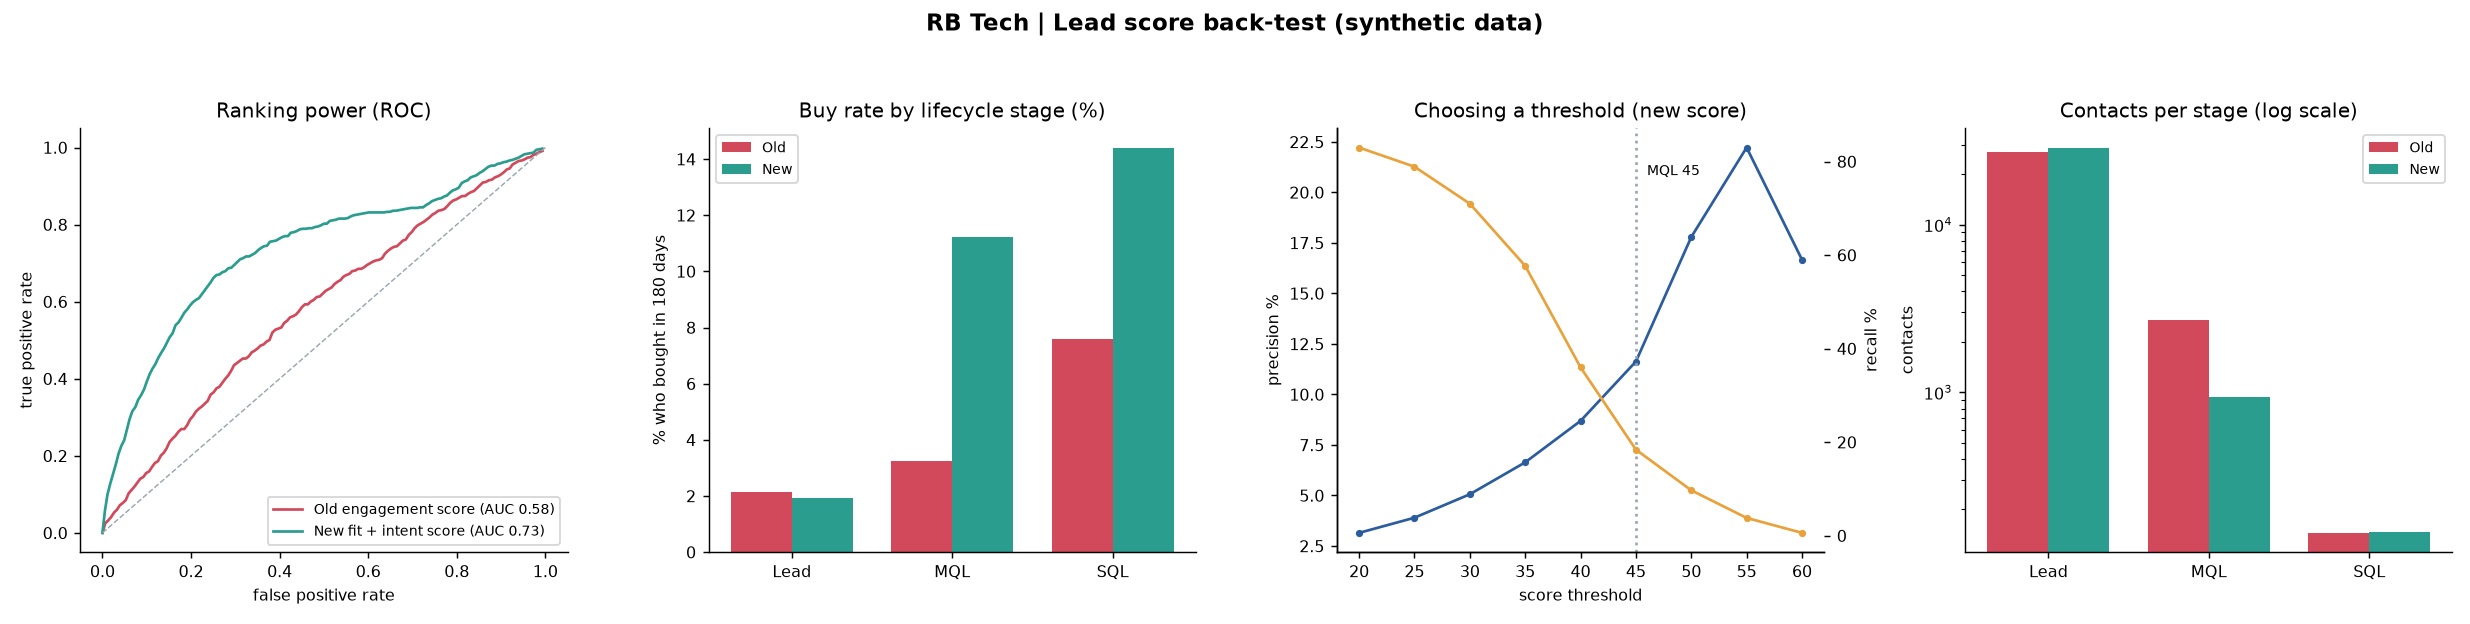
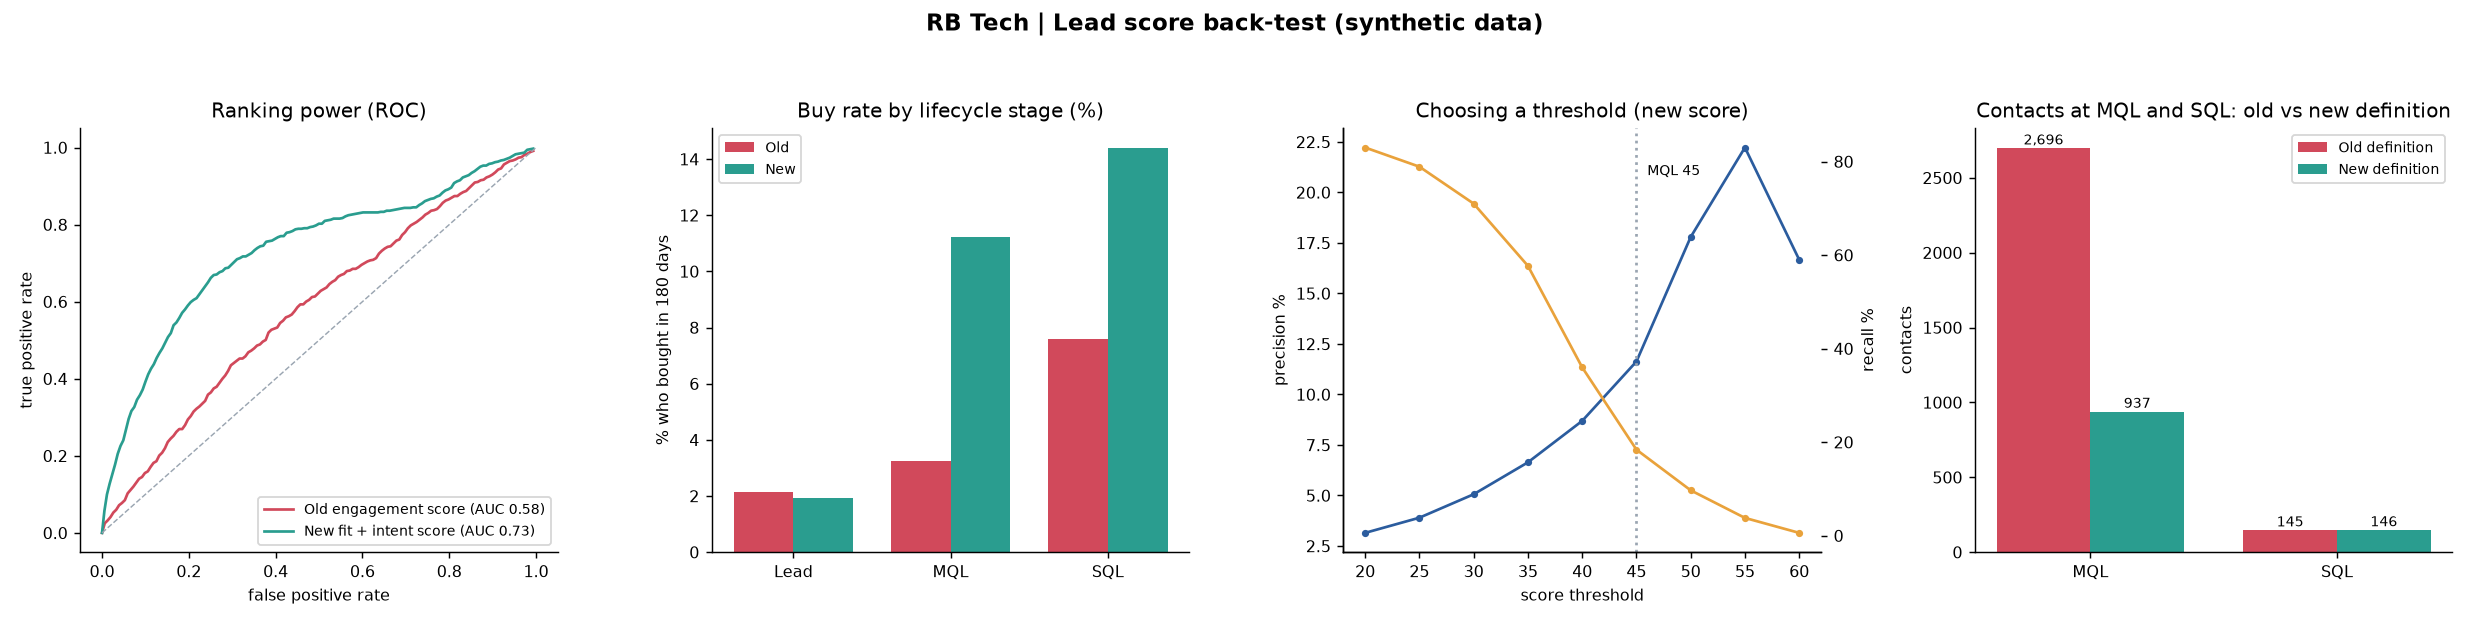
Replace confusing charts: remove log scales, audit panel and error-style framing; rename SKU prefix

diff --git a/02-lead-scoring-redesign/scripts/scoring_backtest.py b/02-lead-scoring-redesign/scripts/scoring_backtest.py
@@ -167,12 +167,16 @@ ax[2].axvline(45, color=GREY, ls=":")
 ax[2].text(46, ax[2].get_ylim()[1] * .9, "MQL 45", fontsize=8)
 vol = stage_tbl.pivot(index="stage", columns="scheme", values="contacts").reindex(["Lead", "MQL", "SQL"])
 vol.columns = ["New", "Old"] if vol.columns[0].startswith("New") else ["Old", "New"]
-ax[3].bar(x - w / 2, vol["Old"].replace(0, 1), w, color=RED, label="Old")
-ax[3].bar(x + w / 2, vol["New"].replace(0, 1), w, color=TEAL, label="New")
-ax[3].set_yscale("log")
-ax[3].set_xticks(x, labels)
+v2 = vol.loc[["MQL", "SQL"]]
+x2 = np.arange(2)
+ax[3].bar(x2 - w / 2, v2["Old"], w, color=RED, label="Old definition")
+ax[3].bar(x2 + w / 2, v2["New"], w, color=TEAL, label="New definition")
+for i_, (o_, n_) in enumerate(zip(v2["Old"], v2["New"])):
+    ax[3].text(i_ - w / 2, o_ + v2.values.max() * .01, f"{int(o_):,}", ha="center", fontsize=8)
+    ax[3].text(i_ + w / 2, n_ + v2.values.max() * .01, f"{int(n_):,}", ha="center", fontsize=8)
+ax[3].set_xticks(x2, ["MQL", "SQL"])
 ax[3].legend(fontsize=8)
-ax[3].set(title="Contacts per stage (log scale)", ylabel="contacts")
+ax[3].set(title="Contacts at MQL and SQL: old vs new definition", ylabel="contacts")
 fig.tight_layout(rect=[0, 0, 1, .93])
 fig.savefig(CHARTS / "scoring_backtest.png", dpi=130)
 print("done")

diff --git a/05-sequence-discipline/scripts/sequence_sim.py b/05-sequence-discipline/scripts/sequence_sim.py
@@ -95,12 +95,12 @@ ax[2].set_xticks(x, ["Bulk", "Bulk +\nstop rule", "Paced"])
 ax[2].axhline(1, color="k", ls="--", lw=.8)
 ax[2].text(2.3, 1.05, "1% line", fontsize=8)
 ax[2].set(title="Real reply rate (%)", ylabel="%")
-ax[3].bar(x, tab.total_sends, color=[RED, GOLD, TEAL])
-ax[3].set_xticks(x, ["Bulk", "Bulk +\nstop rule", "Paced"])
-ax[3].set_yscale("log")
-for i, (s, r) in enumerate(zip(tab.total_sends, tab.real_replies)):
-    ax[3].text(i, s * 1.15, f"{r} replies", ha="center", fontsize=8)
-ax[3].set(title="Emails sent (log scale) and replies", ylabel="emails")
+spr = (tab.total_sends / tab.real_replies.replace(0, np.nan)).round(0)
+ax[3].bar(x, spr, color=[RED, GOLD, TEAL])
+ax[3].set_xticks(x, ["Bulk", "Bulk + stop rule", "Paced"])
+for i_, v_ in enumerate(spr):
+    ax[3].text(i_, v_ + spr.max() * .02, f"{v_:,.0f}", ha="center", fontsize=9, weight="bold")
+ax[3].set(title="Emails sent per real reply (lower is better)", ylabel="emails per reply")
 fig.tight_layout(rect=[0, 0, 1, .93])
 fig.savefig(CHARTS / "sequence_discipline.png", dpi=130)
 print("done")
